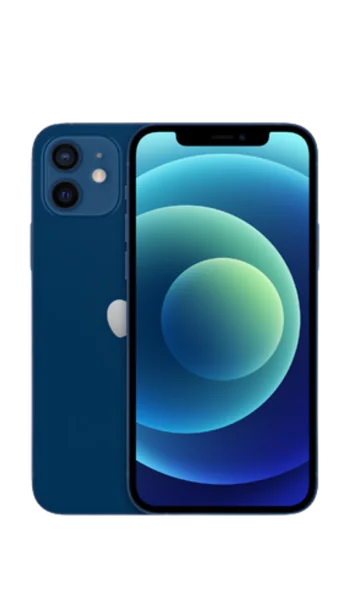
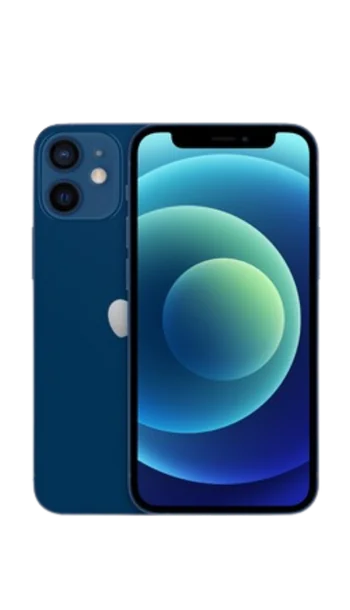
v1.1: imágenes propias del iPhone 12 mini (63 de 182)
Claude-Session: https://claude.ai/code/session_01T8bAe4Z7w5hoWuiY5mK5Vw

diff --git a/assets/js/datos/predeterminadas.js b/assets/js/datos/predeterminadas.js
@@ -22,7 +22,8 @@ export const IMAGENES_PREDETERMINADAS = {
   "iphone-11": { "Morado": "morado", "(PRODUCT)RED": "product-red", "Blanco": "blanco", "Negro": "negro", "Verde": "verde", "Amarillo": "amarillo" },
   "iphone-11-pro": { "Verde noche": "verde-noche", "Plata": "plata", "Gris espacial": "gris-espacial", "Oro": "oro" },
   "iphone-11-pro-max": { "Verde noche": "verde-noche", "Plata": "plata", "Gris espacial": "gris-espacial", "Oro": "oro" },
-  // 12 y 12 mini: las mismas imágenes (se ven iguales; cambia el tamaño).
+  // 12 y 12 mini: se ven iguales (cambia el tamaño). Jared pasó dos juegos: el
+  // primero quedó en el 12 y el segundo en el 12 mini ((PRODUCT)RED, todavía la del 12).
   "iphone-12": { "Blanco": "blanco", "Negro": "negro", "Morado": "morado", "(PRODUCT)RED": "product-red", "Azul": "azul", "Verde": "verde" },
   "iphone-12-mini": { "Blanco": "blanco", "Negro": "negro", "Morado": "morado", "(PRODUCT)RED": "product-red", "Azul": "azul", "Verde": "verde" },
   "iphone-se-2": { "Negro": "negro", "(PRODUCT)RED": "product-red", "Blanco": "blanco" },

diff --git a/DOCUMENTACION.md b/DOCUMENTACION.md
@@ -1564,7 +1564,7 @@ CORREOS_IDIOMA=pt BIN=… bash tests/supabase-local/levantar.sh   # con los corr
 - [ ] **Fuentes legales que no se pudieron abrir** desde el entorno: se verificaron con el buscador y, desde el 22/10/2026, con los informes de Gemini Deep Research que pasó Jared (citas revisadas por coherencia, no contra el original). Ver `legal/FUENTES.md`. Queda para el abogado: la Ley 2300 (franjas, con fuentes secundarias) y si el radicado de PQR con respuesta por WhatsApp o correo cumple con el "seguimiento" (fuente 17).
 - [ ] **Cookies del script de seguimiento externo de GHL:** no se verificaron; si se activa, agregarlo a la Política de cookies.
 - [ ] Probar en GHL los campos de consentimiento y la guía de la sección 12.3.
-- [ ] **Imágenes predeterminadas (v1.1):** Jared las pasa de a 5. Van 63 de 182 combinaciones de modelo y color. Completos: iPhone 7, 7 Plus, 8, 8 Plus, X, XS, XS Max, XR, 11, 11 Pro, 11 Pro Max, SE (2.ª generación), 12 y 12 mini. XS y XS Max: Gris espacial (cada uno con su imagen), Oro y Plata (la misma en los dos). Plata lleva la marca de agua de otra empresa: Jared decidió dejarla así. 12 y 12 mini: las mismas imágenes en los dos. La lista exacta está en `IMAGENES_PREDETERMINADAS` (`assets/js/datos/predeterminadas.js`). El proceso para cada tanda está en la sección 5 de `AI_HANDOFF.md`.
+- [ ] **Imágenes predeterminadas (v1.1):** Jared las pasa de a 5. Van 63 de 182 combinaciones de modelo y color. Completos: iPhone 7, 7 Plus, 8, 8 Plus, X, XS, XS Max, XR, 11, 11 Pro, 11 Pro Max, SE (2.ª generación), 12 y 12 mini. XS y XS Max: Gris espacial (cada uno con su imagen), Oro y Plata (la misma en los dos). Plata lleva la marca de agua de otra empresa: Jared decidió dejarla así. 12 y 12 mini: cada uno con su juego de imágenes (Jared pasó dos), salvo (PRODUCT)RED del 12 mini, que todavía usa la del 12. La lista exacta está en `IMAGENES_PREDETERMINADAS` (`assets/js/datos/predeterminadas.js`). El proceso para cada tanda está en la sección 5 de `AI_HANDOFF.md`.
 - [ ] Que el abogado confirme si publicar capturas de clientes (aun tapadas) necesita autorización por escrito, y si alcanza con lo que guarda el panel desde `0034` (canal, fecha y alcance de la autorización, sin datos de la persona; el mensaje o el documento lo guarda la tienda por fuera).
 - [ ] **Reseñas de antes de `0034`:** quedan "sin registrar" hasta que la tienda complete la autorización en su fila. Se siguen mostrando en el sitio mientras tanto.
 - [x] ~~Confirmar los nombres del catálogo~~: confirmados con las fichas de soporte de Apple en español (informes de Gemini, 22/10/2026). Apple anunció el 17e, 18 Pro, 18 Pro Max y Duo.
@@ -1632,6 +1632,12 @@ Otros LLM o herramientas que no ejecuten hooks deben seguir la misma regla a man
 ## 19. Registro de cambios
 
 > La entrada más nueva va arriba. Formato: **fecha · título** — pedido → qué se hizo → archivos → verificación.
+
+### 23/10/2026 · v1.1: imágenes propias del iPhone 12 mini (63 de 182)
+
+- **Pedido de Jared:** 5 imágenes más del 12 / 12 mini (64 a 68): Azul, Verde, Morado, Blanco y Negro.
+- **Hecho:** son un segundo juego de los mismos colores, con el mismo tamaño y encuadre que el primero (no se puede saber por la foto cuál es el 12 y cuál el mini). Como Jared avisó que pasaría las del 12 y las del 12 mini, el primer juego quedó en el 12 y este en el 12 mini (`assets/img/predeterminadas/iphone-12-mini/`). (PRODUCT)RED del 12 mini sigue con la del 12. La cuenta no cambia: son reemplazos.
+- **Verificación:** `node tests/documentacion.mjs` OK, todos los archivos del mapa existen, y en `tests/verificar.cjs` pasan el caso "v1.1: imágenes" y el 11 (sin marca).
 
 ### 23/10/2026 · v1.1: iPhone 12 y 12 mini completos (63 de 182)
 

diff --git a/AI_HANDOFF.md b/AI_HANDOFF.md
@@ -210,7 +210,7 @@ No hay tests fallando ni configuraciones a medias. El código actual funciona y 
       5. Correr el caso "v1.1: imágenes" y el 11 (sin marca) de `verificar.cjs`.
       6. Actualizar en `DOCUMENTACION.md` la cuenta de la sección 17 ("Van N de 182") y la entrada de la 19.
       7. Commit y push.
-    - **Cargadas hasta ahora (63 de 182; desde la tanda de las imágenes 59 a 63, el 12 y el 12 mini están completos con Azul y Verde; ver el detalle en la sección 17 de `DOCUMENTACION.md`):** 12 y 12 mini con Blanco, Negro, Morado y (PRODUCT)RED, las mismas imágenes en los dos. La imagen 57 era del XS (lo confirmó Jared): reemplazó la del XS en Gris espacial; el XS Max conserva la anterior. Antes: completos el iPhone 7, 7 Plus, 8, 8 Plus, X, XR, 11, 11 Pro, 11 Pro Max y SE (2.ª generación); XS y XS Max completos: Gris espacial (cada uno el suyo), Oro y Plata (la misma en los dos). Plata lleva la marca de agua "Swappie": Jared decidió dejarla (23/10/2026). **Fuera de esa decisión, no cargar imágenes con marcas de agua de terceros sin preguntarle.** Criterio: si dos modelos se ven iguales y solo cambia el tamaño (Pro y Pro Max, por ejemplo), la misma imagen va en los dos y se le avisa a Jared.
+    - **Cargadas hasta ahora (63 de 182; el 12 y el 12 mini están completos y cada uno tiene su juego de imágenes —el segundo juego, imágenes 64 a 68, quedó en el 12 mini—, salvo (PRODUCT)RED del 12 mini, que usa la del 12; ver el detalle en la sección 17 de `DOCUMENTACION.md`):** 12 y 12 mini con Blanco, Negro, Morado y (PRODUCT)RED, las mismas imágenes en los dos. La imagen 57 era del XS (lo confirmó Jared): reemplazó la del XS en Gris espacial; el XS Max conserva la anterior. Antes: completos el iPhone 7, 7 Plus, 8, 8 Plus, X, XR, 11, 11 Pro, 11 Pro Max y SE (2.ª generación); XS y XS Max completos: Gris espacial (cada uno el suyo), Oro y Plata (la misma en los dos). Plata lleva la marca de agua "Swappie": Jared decidió dejarla (23/10/2026). **Fuera de esa decisión, no cargar imágenes con marcas de agua de terceros sin preguntarle.** Criterio: si dos modelos se ven iguales y solo cambia el tamaño (Pro y Pro Max, por ejemplo), la misma imagen va en los dos y se le avisa a Jared.
     - **Mecanismo** (ya hecho; no cambia por tanda):
       - En `equipos.fotos` va la ruta `predeterminadas/<slug>/<archivo>.webp`.
       - `urlArchivo()` (demo y Supabase) la sirve desde el sitio y `borrarArchivos()` no la borra.
